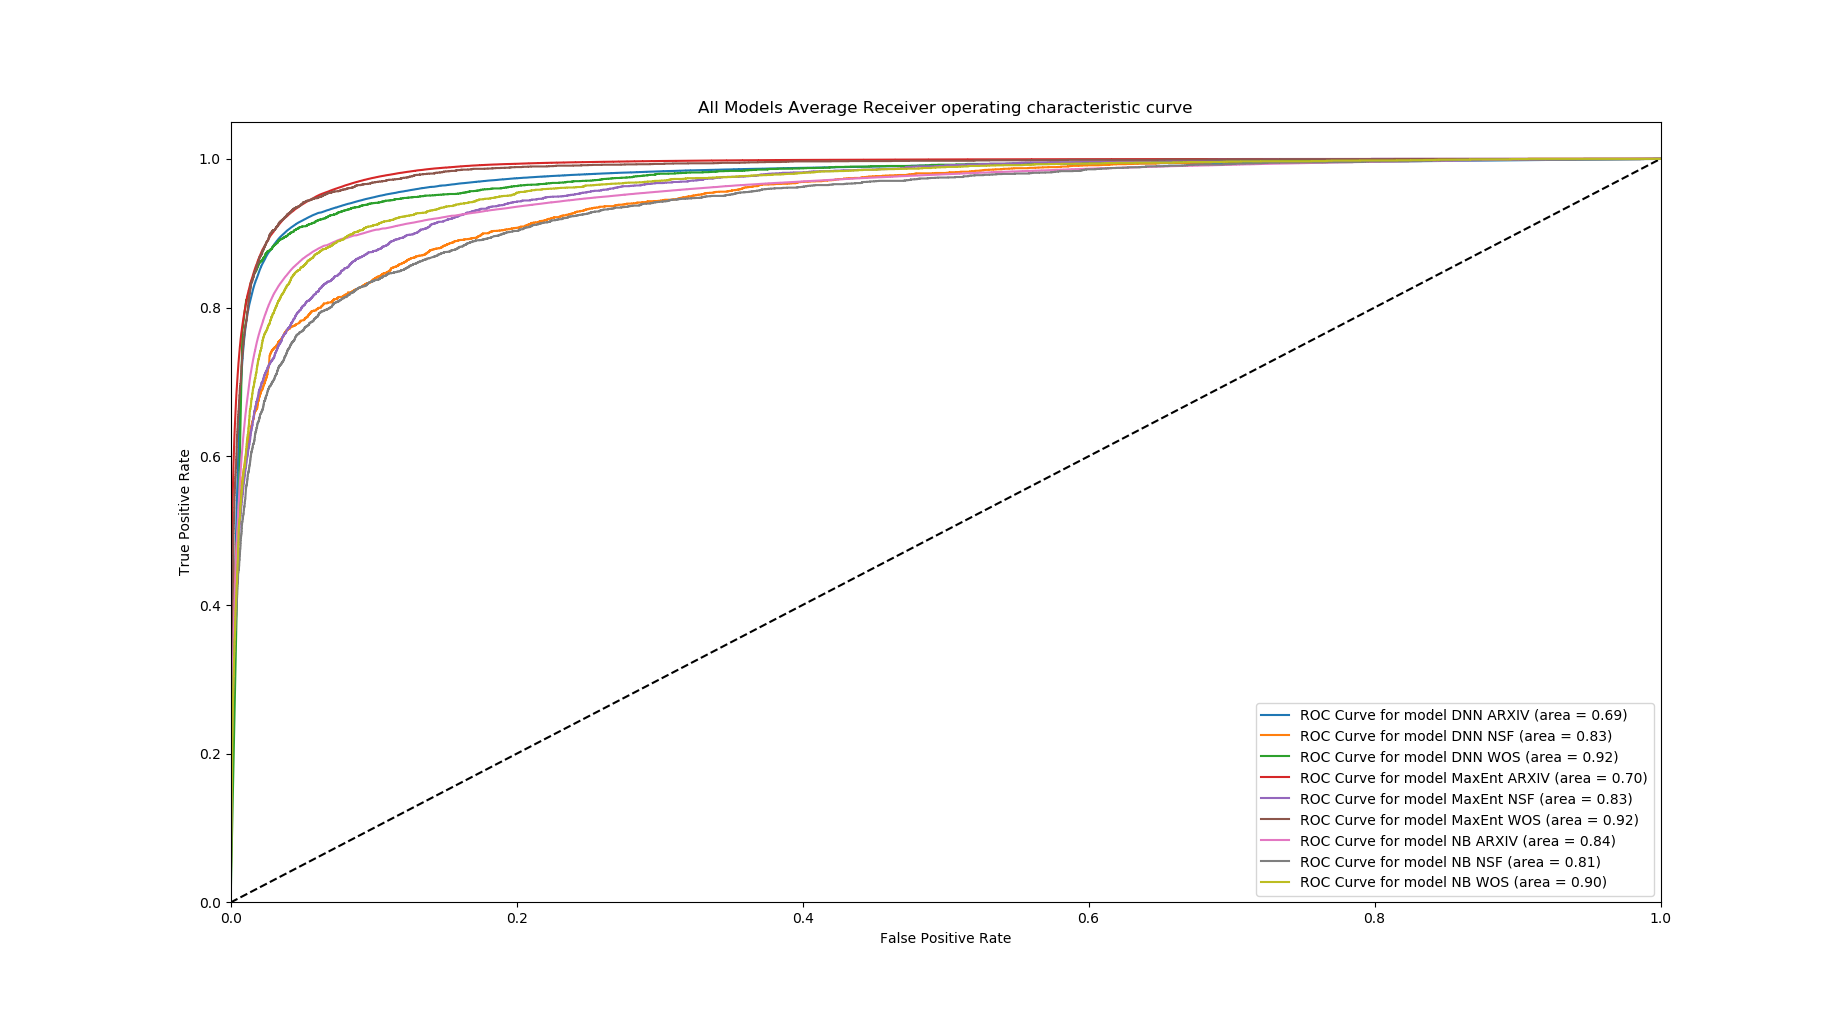
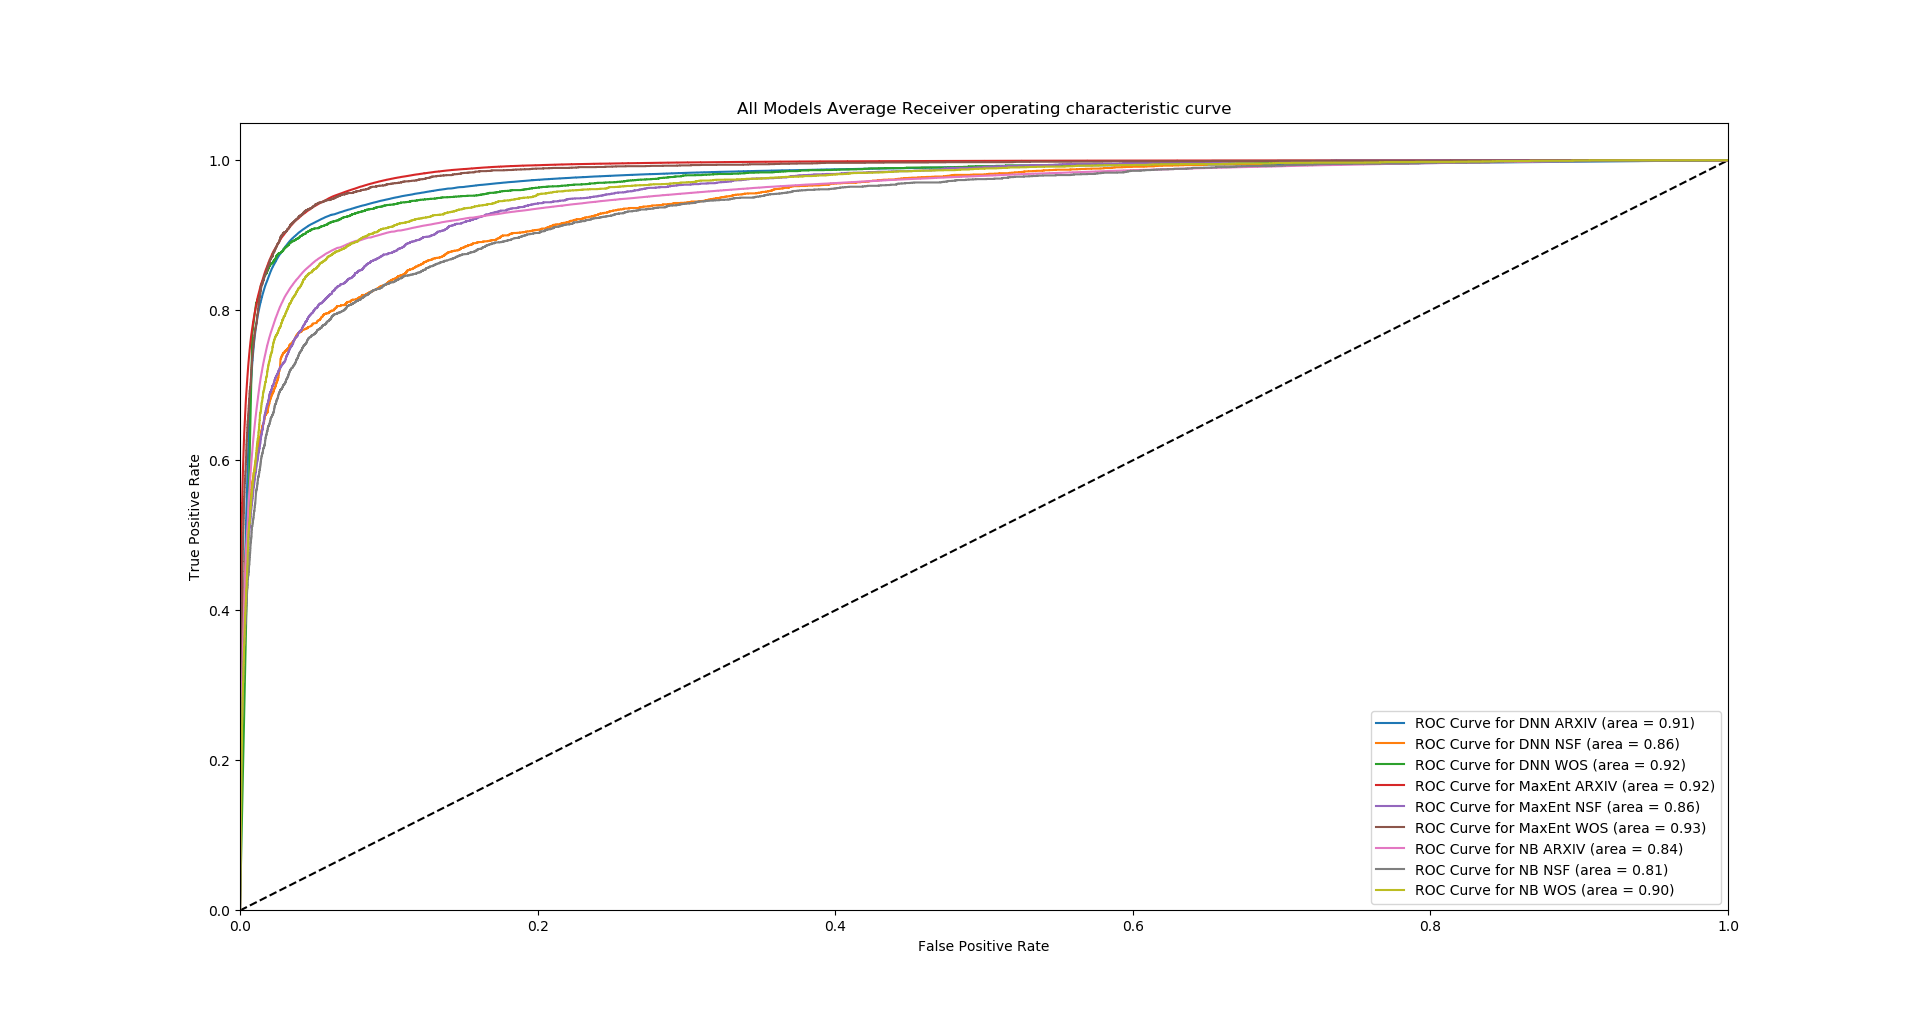
Change AUC averaging to micro

diff --git a/Models/DNN/WOS/eval.py b/Models/DNN/WOS/eval.py
@@ -75,9 +75,10 @@ def main():
 
     plt.show()
 
-    with open("../../../Data/ROC_Curves/DNN WOS.p","wb") as handle:		
-        pickle.dump((metrics.roc_curve(label_binarize(Y_test,classes=list(LABELS.values())).ravel(),y_score.ravel()),metrics.roc_auc_score(label_binarize(Y_test,classes=list(LABELS.values())),label_binarize(classPredict,classes=list(LABELS.values())))),handle)
-
+    with open("../../../Data/ROC_Curves/DNN WOS.p","wb") as handle:
+        curve = metrics.roc_curve(label_binarize(Y_test,classes=list(LABELS.values())).ravel(),y_score.ravel())
+        auc = metrics.roc_auc_score(label_binarize(Y_test,classes=list(LABELS.values())),label_binarize(classPredict,classes=list(LABELS.values())),average="micro")		
+        pickle.dump((curve,auc),handle)
     # Calculate accuracy, precision, and recall
     print("PRINTING STATISTICS")
     acc = accuracy_score(y_true = Y_test, y_pred = classPredict)

diff --git a/Models/DNN/NSF/eval.py b/Models/DNN/NSF/eval.py
@@ -114,8 +114,10 @@ def main():
 
     plt.show()
 
-    with open("../../../Data/ROC_Curves/DNN NSF.p","wb") as handle:		
-        pickle.dump((metrics.roc_curve(label_binarize(Y_test,classes=list(LABELS.values())).ravel(),y_score.ravel()),metrics.roc_auc_score(label_binarize(Y_test,classes=list(LABELS.values())),label_binarize(classPredict,classes=list(LABELS.values())))),handle)
+    with open("../../../Data/ROC_Curves/DNN NSF.p","wb") as handle:
+        curve = metrics.roc_curve(label_binarize(Y_test,classes=list(LABELS.values())).ravel(),y_score.ravel())
+        auc = metrics.roc_auc_score(label_binarize(Y_test,classes=list(LABELS.values())),label_binarize(classPredict,classes=list(LABELS.values())),average="micro")		
+        pickle.dump((curve,auc),handle)
 
     # Calculate accuracy, precision, and recall
     print("PRINTING STATISTICS")

diff --git a/Models/DNN/ARXIV/eval.py b/Models/DNN/ARXIV/eval.py
@@ -74,8 +74,10 @@ def main():
 
 	plt.show()
 
-	with open("../../../Data/ROC_Curves/DNN ARXIV.p","wb") as handle:		
-		pickle.dump((metrics.roc_curve(label_binarize(Y_test,classes=list(LABELS.values())).ravel(),y_score.ravel()),metrics.roc_auc_score(label_binarize(Y_test,classes=list(LABELS.values())),label_binarize(classPredict,classes=list(LABELS.values())))),handle)
+	with open("../../../Data/ROC_Curves/DNN ARXIV.p","wb") as handle:
+		curve = metrics.roc_curve(label_binarize(Y_test,classes=list(LABELS.values())).ravel(),y_score.ravel())
+		auc = metrics.roc_auc_score(label_binarize(Y_test,classes=list(LABELS.values())),label_binarize(classPredict,classes=list(LABELS.values())),average="micro")		
+		pickle.dump((curve,auc),handle)
 
 	# Calculate accuracy, precision, and recall
 	print("PRINTING STATISTICS")

diff --git a/Models/MaxEnt/WOS/eval.py b/Models/MaxEnt/WOS/eval.py
@@ -49,8 +49,10 @@ def main():
 	tpr = dict()
 	roc_auc = dict()
 
-	with open("../../../Data/ROC_Curves/MaxEnt WOS.p","wb") as handle:		
-		pickle.dump((metrics.roc_curve(label_binarize(Y_test,classes=list(LABELS.values())).ravel(),y_score.ravel()),metrics.roc_auc_score(label_binarize(Y_test,classes=list(LABELS.values())),label_binarize(Y_pred,classes=list(LABELS.values())))),handle)
+	with open("../../../Data/ROC_Curves/MaxEnt WOS.p","wb") as handle:
+		curve = metrics.roc_curve(label_binarize(Y_test,classes=list(LABELS.values())).ravel(),y_score.ravel())
+		auc = metrics.roc_auc_score(label_binarize(Y_test,classes=list(LABELS.values())),label_binarize(Y_pred,classes=list(LABELS.values())),average="micro")		
+		pickle.dump((curve,auc),handle)
 
 
 	for i in range(len(LABELS)):

diff --git a/Models/MaxEnt/ARXIV/eval.py b/Models/MaxEnt/ARXIV/eval.py
@@ -77,8 +77,10 @@ def main():
 
 		pickle.dump(Y_pred,handle)
 
-	with open("../../../Data/ROC_Curves/MaxEnt ARXIV.p","wb") as handle:		
-		pickle.dump((metrics.roc_curve(label_binarize(Y_test,classes=list(LABELS.values())).ravel(),y_score.ravel()),metrics.roc_auc_score(label_binarize(Y_test,classes=list(LABELS.values())),label_binarize(Y_pred,classes=list(LABELS.values())))),handle)
+	with open("../../../Data/ROC_Curves/MaxEnt ARXIV.p","wb") as handle:
+		curve = metrics.roc_curve(label_binarize(Y_test,classes=list(LABELS.values())).ravel(),y_score.ravel())
+		auc = metrics.roc_auc_score(label_binarize(Y_test,classes=list(LABELS.values())),label_binarize(Y_pred,classes=list(LABELS.values())),average="micro")		
+		pickle.dump((curve,auc),handle)
 
 	# print(Y_pred.tolist())
 

diff --git a/Models/MaxEnt/NSF/eval.py b/Models/MaxEnt/NSF/eval.py
@@ -76,8 +76,10 @@ def main():
 
 		pickle.dump(Y_pred,handle)
 
-	with open("../../../Data/ROC_Curves/MaxEnt NSF.p","wb") as handle:		
-		pickle.dump((metrics.roc_curve(label_binarize(Y_test,classes=list(LABELS.values())).ravel(),y_score.ravel()),metrics.roc_auc_score(label_binarize(Y_test,classes=list(LABELS.values())),label_binarize(Y_pred,classes=list(LABELS.values())))),handle)
+	with open("../../../Data/ROC_Curves/MaxEnt NSF.p","wb") as handle:
+		curve = metrics.roc_curve(label_binarize(Y_test,classes=list(LABELS.values())).ravel(),y_score.ravel())
+		auc = metrics.roc_auc_score(label_binarize(Y_test,classes=list(LABELS.values())),label_binarize(Y_pred,classes=list(LABELS.values())),average="micro")		
+		pickle.dump((curve,auc),handle)
 
 	# print(Y_pred.tolist())
 

diff --git a/Models/NB/ARXIV/eval.py b/Models/NB/ARXIV/eval.py
@@ -75,8 +75,10 @@ def main():
 
 		pickle.dump(Y_pred,handle)
 
-	with open("../../../Data/ROC_Curves/NB ARXIV.p","wb") as handle:		
-		pickle.dump((metrics.roc_curve(label_binarize(Y_test,classes=list(LABELS.values())).ravel(),y_score.ravel()),metrics.roc_auc_score(label_binarize(Y_test,classes=list(LABELS.values())),label_binarize(Y_pred,classes=list(LABELS.values())))),handle)
+	with open("../../../Data/ROC_Curves/NB ARXIV.p","wb") as handle:
+		curve = metrics.roc_curve(label_binarize(Y_test,classes=list(LABELS.values())).ravel(),y_score.ravel())
+		auc = metrics.roc_auc_score(label_binarize(Y_test,classes=list(LABELS.values())),label_binarize(Y_pred,classes=list(LABELS.values())),average="micro")		
+		pickle.dump((curve,auc),handle)
 
 	# print(Y_pred.tolist())
 

diff --git a/Models/NB/NSF/eval.py b/Models/NB/NSF/eval.py
@@ -73,8 +73,10 @@ def main():
 
 		pickle.dump(Y_pred,handle)
 
-	with open("../../../Data/ROC_Curves/NB NSF.p","wb") as handle:		
-		pickle.dump((metrics.roc_curve(label_binarize(Y_test,classes=list(LABELS.values())).ravel(),y_score.ravel()),metrics.roc_auc_score(label_binarize(Y_test,classes=list(LABELS.values())),label_binarize(Y_pred,classes=list(LABELS.values())))),handle)
+	with open("../../../Data/ROC_Curves/NB NSF.p","wb") as handle:
+		curve = metrics.roc_curve(label_binarize(Y_test,classes=list(LABELS.values())).ravel(),y_score.ravel())
+		auc = metrics.roc_auc_score(label_binarize(Y_test,classes=list(LABELS.values())),label_binarize(Y_pred,classes=list(LABELS.values())),average="micro")		
+		pickle.dump((curve,auc),handle)
 
 	# print(Y_pred.tolist())
 

diff --git a/Models/NB/WOS/eval.py b/Models/NB/WOS/eval.py
@@ -74,8 +74,10 @@ def main():
 
 		pickle.dump(Y_pred,handle)
 
-	with open("../../../Data/ROC_Curves/NB WOS.p","wb") as handle:		
-		pickle.dump((metrics.roc_curve(label_binarize(Y_test,classes=list(LABELS.values())).ravel(),y_score.ravel()),metrics.roc_auc_score(label_binarize(Y_test,classes=list(LABELS.values())),label_binarize(Y_pred,classes=list(LABELS.values())))),handle)
+	with open("../../../Data/ROC_Curves/NB WOS.p","wb") as handle:
+		curve = metrics.roc_curve(label_binarize(Y_test,classes=list(LABELS.values())).ravel(),y_score.ravel())
+		auc = metrics.roc_auc_score(label_binarize(Y_test,classes=list(LABELS.values())),label_binarize(Y_pred,classes=list(LABELS.values())),average="micro")		
+		pickle.dump((curve,auc),handle)
 
 	# print(Y_pred.tolist())
 
